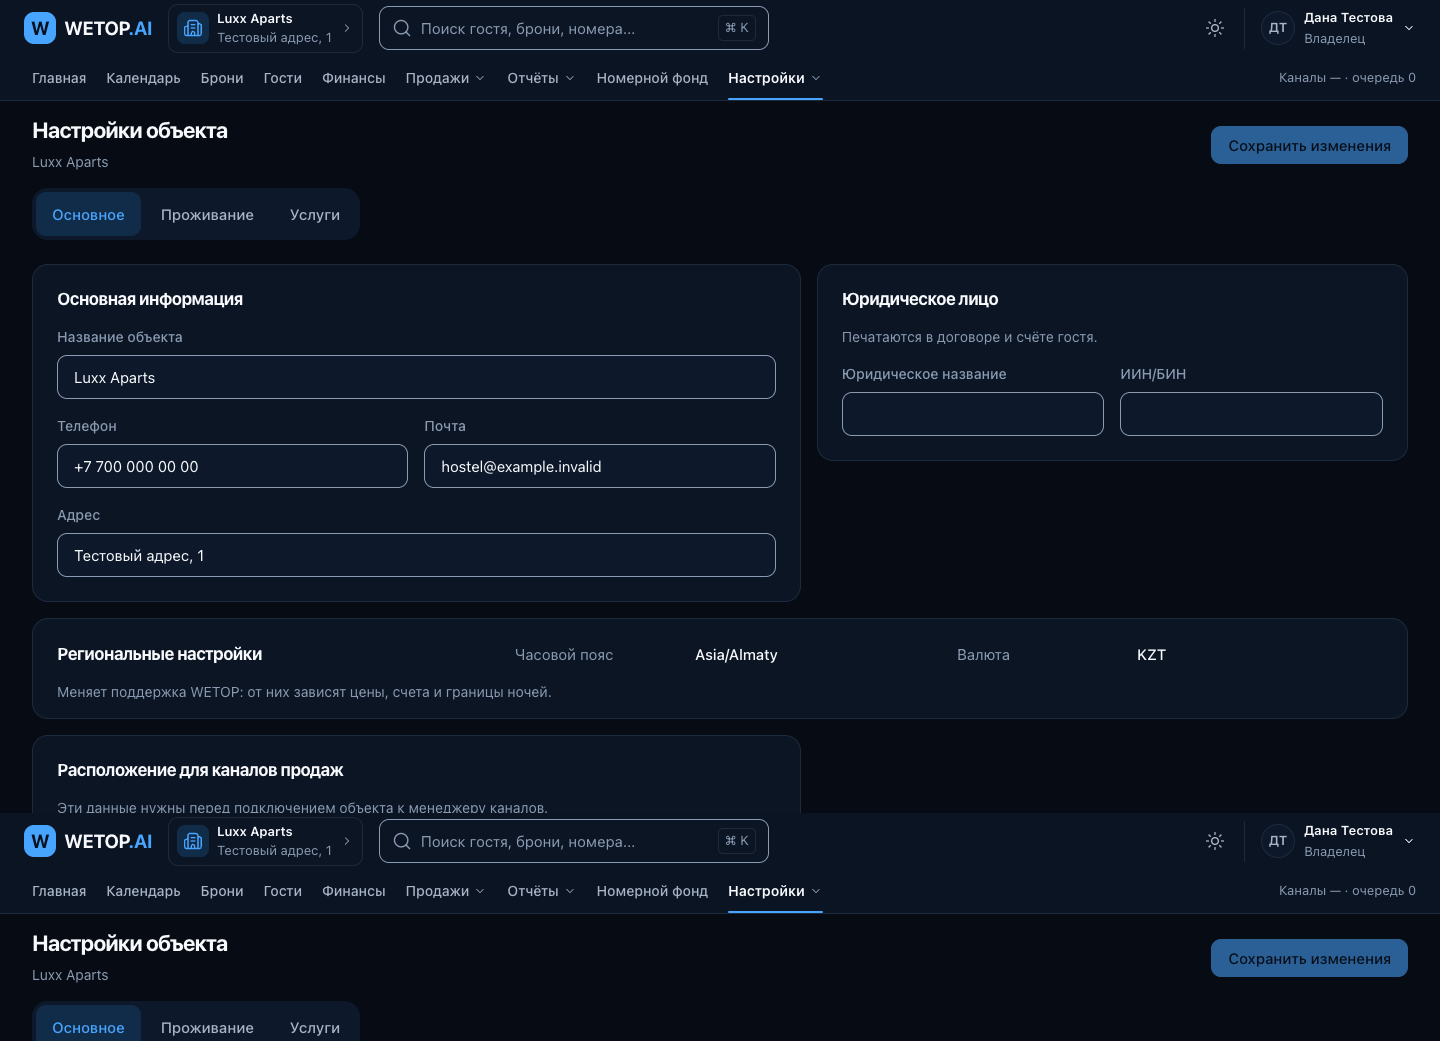
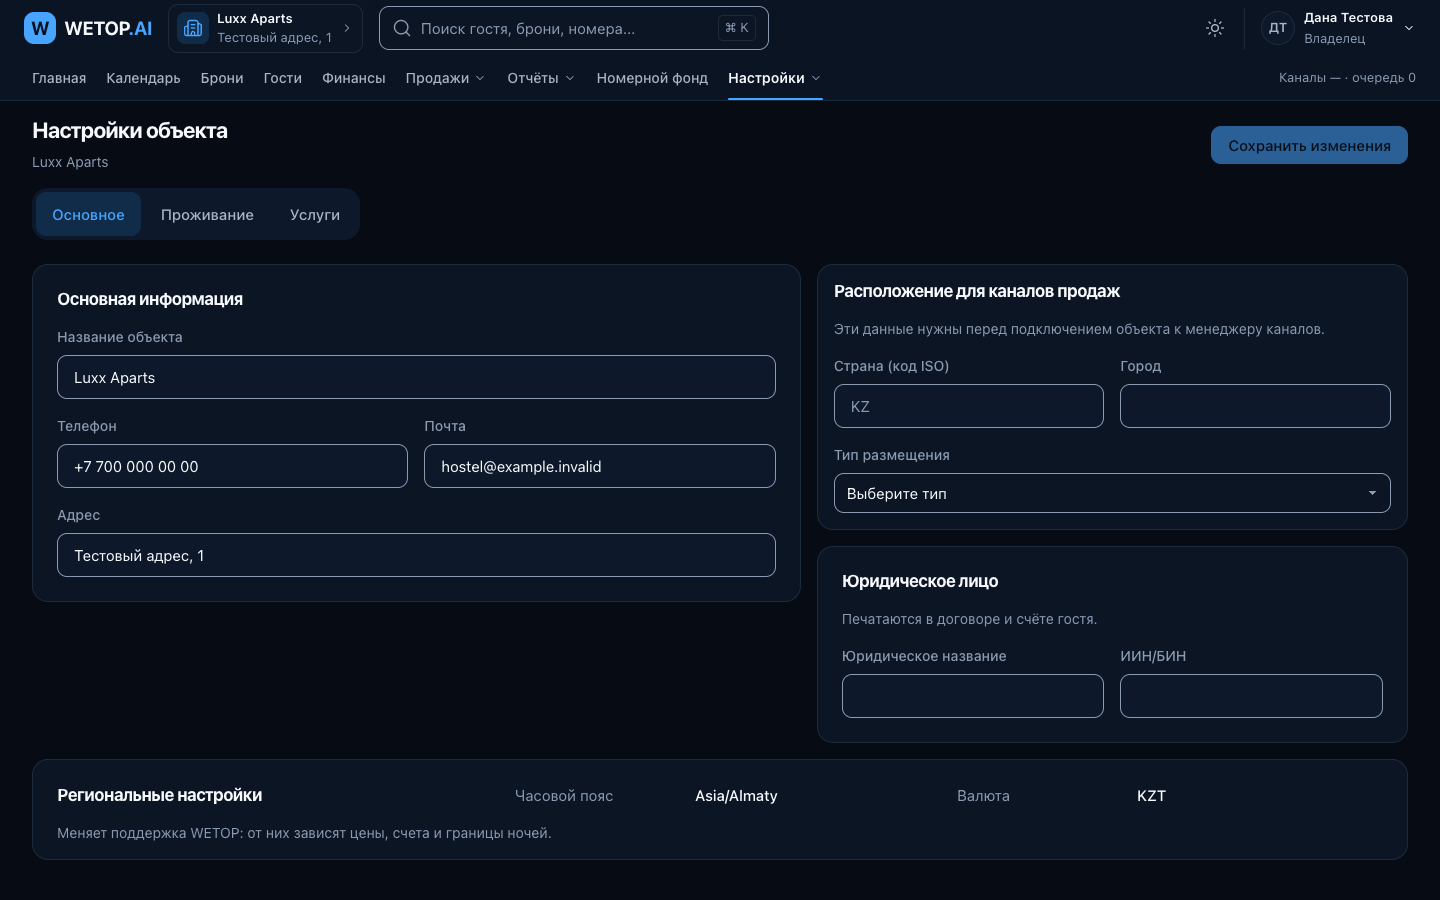
fix: validate scoped integration fixture and compact property settings

diff --git a/apps/web/src/app/hotel-settings/settings.css b/apps/web/src/app/hotel-settings/settings.css
@@ -351,9 +351,10 @@
 .object-settings .settings-table th, .object-settings .settings-table td { padding: var(--space-2) var(--space-4); font-size: var(--text-sm); }
 @media (min-width: 1000px) {
   .object-settings .settings-form--general { grid-template-columns: minmax(0, 1.3fr) minmax(0, 1fr); align-items: start; }
-  .object-settings .settings-form--general > [aria-labelledby='settings-main'] { grid-column: 1; grid-row: 1; }
-  .object-settings .settings-form--general > [aria-labelledby='settings-legal'] { grid-column: 2; grid-row: 1; }
-  .object-settings .settings-form--general > .settings-region { grid-column: 1 / -1; grid-row: 2; display: grid; grid-template-columns: minmax(180px, 1fr) minmax(0, 2fr); gap: var(--space-2) var(--space-6); align-items: center; padding: var(--space-4) var(--space-6); }
+  .object-settings .settings-form--general > [aria-labelledby='settings-main'] { grid-column: 1; grid-row: 1 / 3; }
+  .object-settings .settings-form--general > [aria-labelledby='settings-channex-location'] { grid-column: 2; grid-row: 1; padding: var(--space-4); }
+  .object-settings .settings-form--general > [aria-labelledby='settings-legal'] { grid-column: 2; grid-row: 2; }
+  .object-settings .settings-form--general > .settings-region { grid-column: 1 / -1; grid-row: 3; display: grid; grid-template-columns: minmax(180px, 1fr) minmax(0, 2fr); gap: var(--space-2) var(--space-6); align-items: center; padding: var(--space-4) var(--space-6); }
   .object-settings .settings-region > h2 { margin: 0; }
   .object-settings .settings-region .settings-facts { display: grid; grid-template-columns: repeat(2, minmax(0, 1fr)); gap: var(--space-4); }
   .object-settings .settings-region .settings-note { grid-column: 1 / -1; margin: 0; }

diff --git a/tests/integration/integration-tables-role.test.ts b/tests/integration/integration-tables-role.test.ts
@@ -193,8 +193,10 @@ describe.skipIf(!url)(
         publisher as never,
         service(),
       );
-      const before = process.env['INTEGRATION_PROPERTY_ID'];
-      process.env['INTEGRATION_PROPERTY_ID'] = property.id;
+      // Multi-property routing requires an explicit property mapping, rather than the legacy installation env.
+      const mapping = await admin.channelMapping.create({
+        data: { propertyId: property.id, provider: 'channex', providerPropertyId: 'chx-role-test' },
+      });
       let events: Array<{ user: string; sql: string }>;
       try {
         await asOrg(async () => {
@@ -205,9 +207,8 @@ describe.skipIf(!url)(
         // срез до очистки: она идёт ролью владельца базы и в перехват тоже попадает
         events = seen.filter((s) => /external_events/.test(s.sql));
       } finally {
-        if (before === undefined) delete process.env['INTEGRATION_PROPERTY_ID'];
-        else process.env['INTEGRATION_PROPERTY_ID'] = before;
         await admin.externalEvent.deleteMany({ where: { externalEventId: revisionId } });
+        await admin.channelMapping.delete({ where: { id: mapping.id } });
       }
       expect(events.length).toBeGreaterThan(0);
       // локально служебный пул подключается ролью владельца базы, на сервере — wetop_service; важно одно: не wetop_app

diff --git a/reports/channex-multi-property-2026-10-04/report.md b/reports/channex-multi-property-2026-10-04/report.md
@@ -35,3 +35,18 @@ Production metadata migration applied 04.10.2026: 3 columns, one known-property 
 other property metadata remains NULL. Existing property row count (2) and digest unchanged.
 Only approved 041 was applied from a migration snapshot excluding the five unrelated pending migrations.
 Initial release-checks was cancelled by @GAIVER007; owner approved rerun.
+
+Final local verification after integration fixture correction:
+- All integration tests: 79 files passed / 6 skipped, 305 tests passed / 9 skipped (125.52 s).
+- UI slice: 13 passed, including laptop layout and metadata save/reload.
+- CI candidate 04d57380: 3247 unit tests and 50 site tests passed; full migration rollback/schema
+  comparison passed. Integration found an obsolete installation-env fixture; it now creates and
+  cleans an explicit property mapping, preserving all database-role assertions (6/6 pass).
+- Laptop layout regression was red before assigning metadata/legal panels to the right-hand grid.
+- Approved production 046-050 applied after fresh backup wetop-20261004T105313Z.dump.
+  Old-data digests for properties, memberships, reservations, reservation_items, folios, payments
+  and guests unchanged. Four new tables, four tenant policies, four application grants and two
+  membership columns verified. Prisma reports schema up to date.
+- Live staging mapping exists, exactly one active webhook, callback and header secret match.
+  Empty authenticated callback request using WETOP-Integration-Check/1.0 returns expected HTTP 400.
+  Python's default User-Agent received Cloudflare 403; the ordinary service request reaches API.
